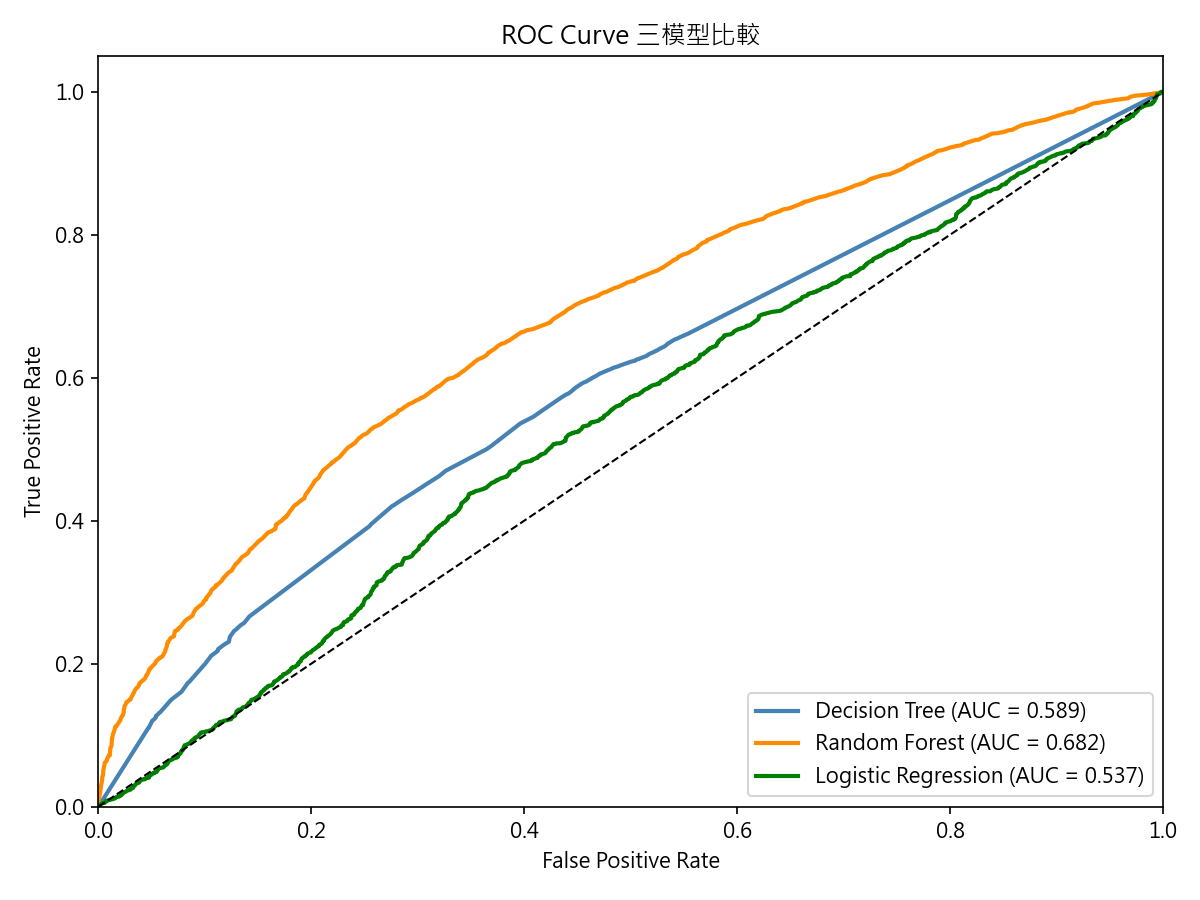
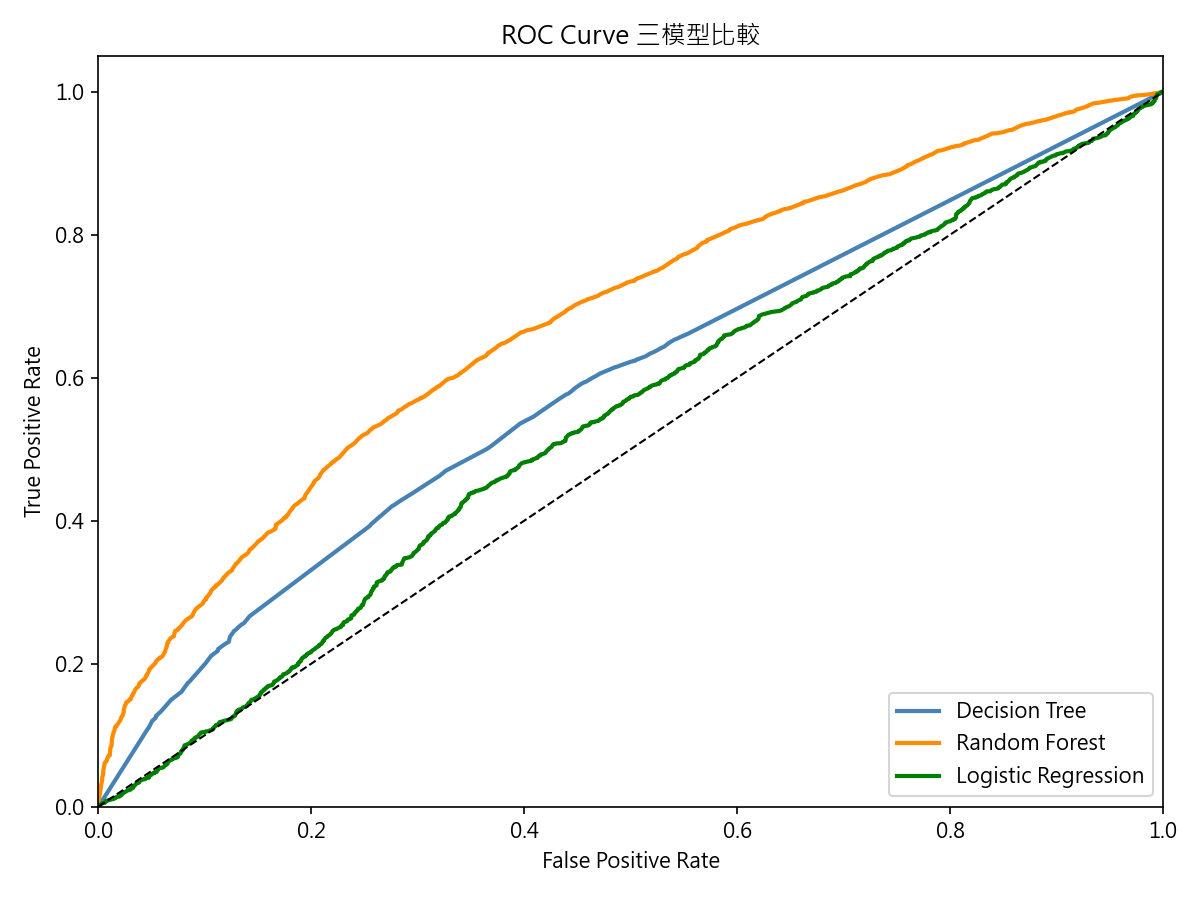
修改 train_models，以產生不修改後的圖片

Changed region(s): [[0.6783, 0.7778, 0.9558, 0.8711], [0.6167, 0.7778, 0.6475, 0.8711]]

diff --git a/notebooks/train_models.py b/notebooks/train_models.py
@@ -127,7 +127,7 @@ for (name, res), color in zip(results.items(), colors):
     mean_tpr /= 3
     mean_auc = auc(all_fpr, mean_tpr)
     ax.plot(all_fpr, mean_tpr, color=color, lw=2,
-            label=f"{name} (AUC = {mean_auc:.3f})")
+        label=f"{name}")
 
 ax.plot([0, 1], [0, 1], "k--", lw=1)
 ax.set(xlim=[0, 1], ylim=[0, 1.05],
